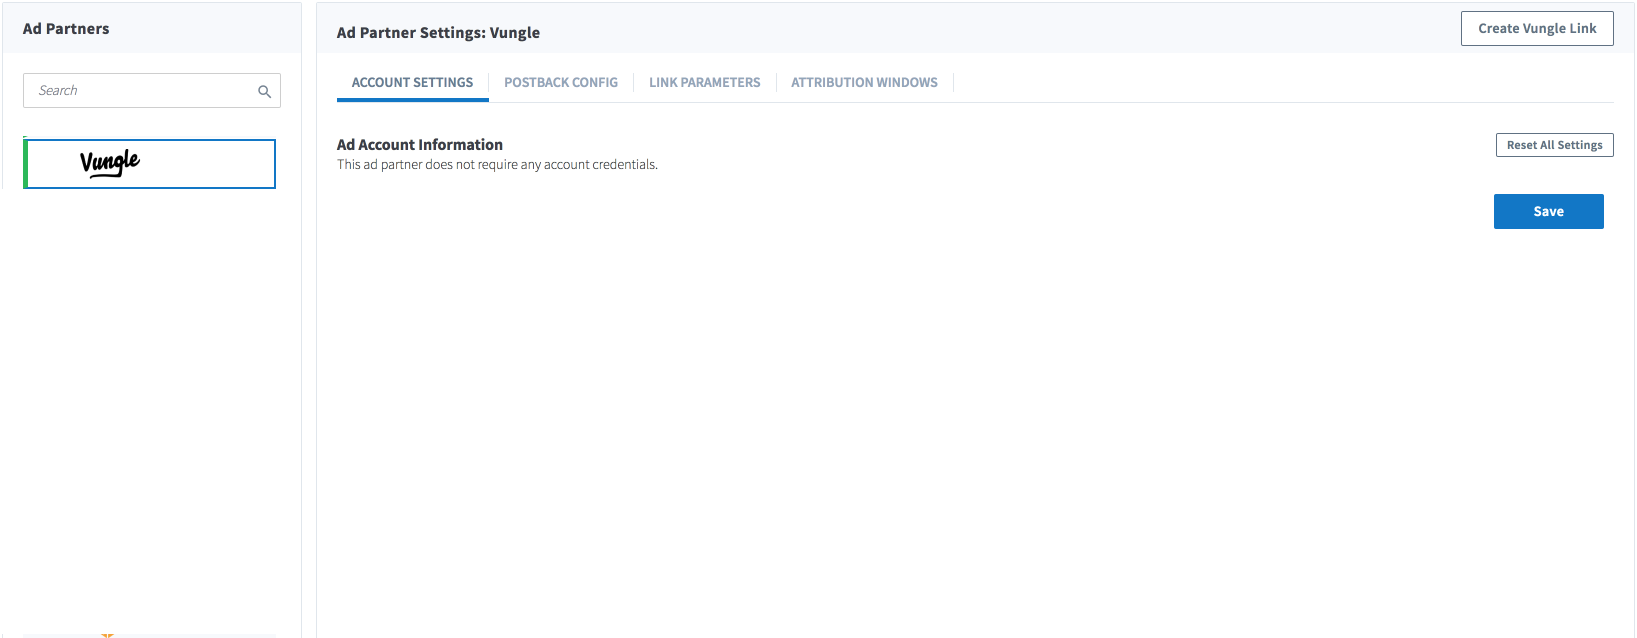
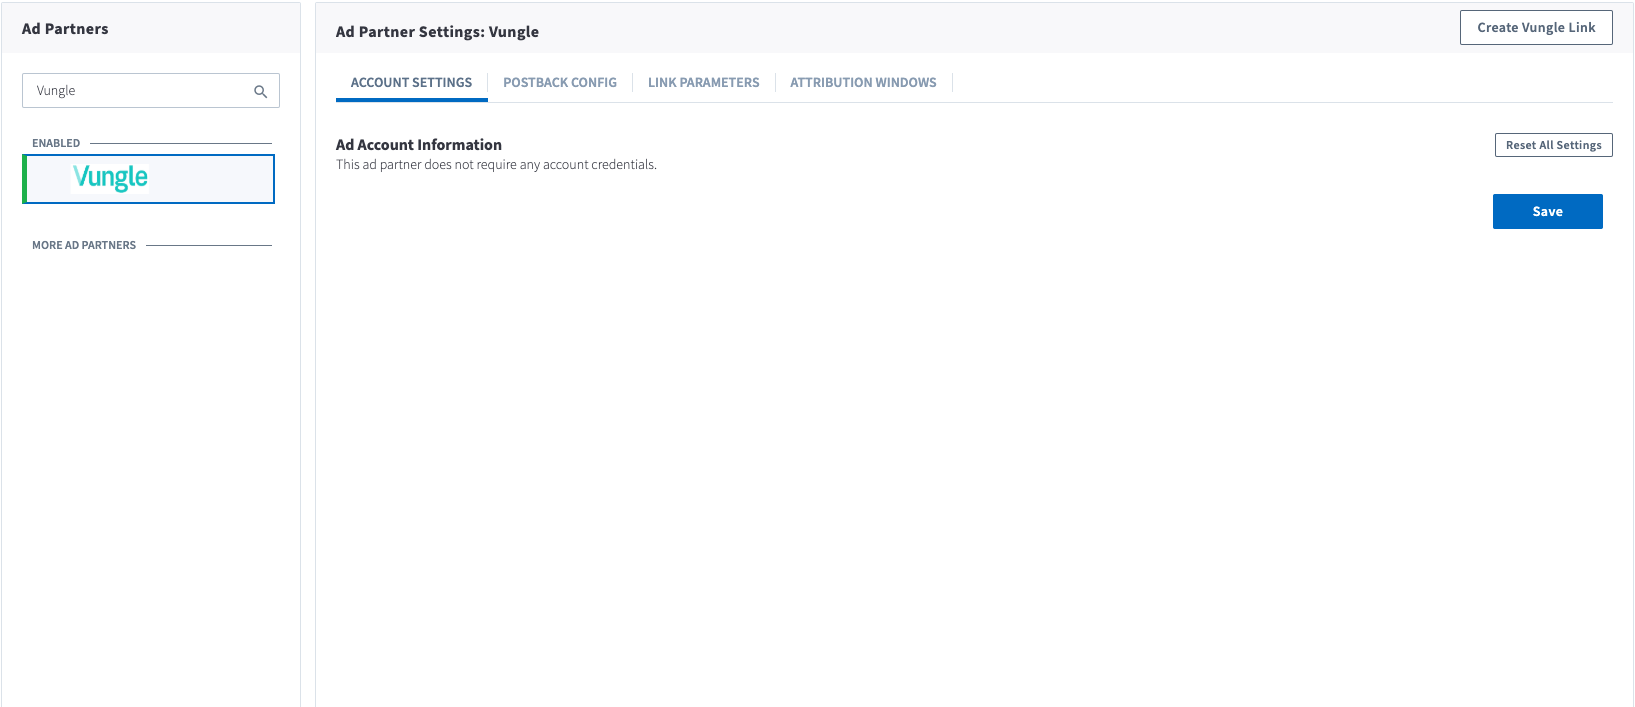
DOS-591
Vungle & Clicksworks7

diff --git a/pages/deep-linked-ads/ad-networks-list.md b/pages/deep-linked-ads/ad-networks-list.md
@@ -91,7 +91,7 @@ Interested in becoming a Universal Ads Partner? Just fill out this form: **[Part
 <a href="http://www.click2commission.com" target="_blank">![Click2Commission](https://cdn.branch.io/branch-assets/ad-partner-manager/388787843096400122/c2c-HD-logo-1528847880292.png)</a>|**[Click2Commission](/deep-linked-ads/click2commission-mobile-tracking/)**
 <a href="https://www.clickadu.com/" target="_blank">![Clickadu](https://cdn.branch.io/branch-assets/ad-partner-manager/386574786681131050/clickadu-1528501636823.png)</a>|**[Clickadu](/deep-linked-ads/clickadu-mobile-tracking/)**
 <a href="https://clickky.biz/" target="_blank">![Clickky](https://cdn.branch.io/branch-assets/ad-partner-manager/386574786681131050/clickky-1528501647002.png)</a>|**[Clickky](/deep-linked-ads/clickky-mobile-tracking/)**
-<a href="http://www.clickwork7.com/" target="_blank">![Clickwork7](https://s3.amazonaws.com/platform_static_files/adnetwork_logos/clickwork7.png)</a>|**[Clickwork7](/deep-linked-ads/clickwork7-mobile-tracking/)**
+<a href="http://www.clickwork7.com/" target="_blank">![Clickwork7](https://cdn.branch.io/branch-assets/ad-partner-manager//clickwork7_logo-1554421391704.png)</a>|**[Clickwork7](/deep-linked-ads/clickwork7-mobile-tracking/)**
 <a href="http://clinch.co" target="_blank">![Clinch](https://cdn.branch.io/branch-assets/ad-partner-manager/388787843096400122/100-1526521261310.png)</a>|**[Clinch](/deep-linked-ads/clinch-mobile-tracking/)**
 <a href="http://cluep.com" target="_blank">![Cluep](https://cdn.branch.io/branch-assets/ad-partner-manager/386574786681131050/new-cluep-logo-01-1533858970784.png)</a>|**[Cluep](/deep-linked-ads/cluep-mobile-tracking/)**
 <a href="http://www.collectcent.com/" target="_blank">![Collectcent Digital Media](https://cdn.branch.io/branch-assets/ad-partner-manager/386574786681131050/download-1536897978496.png)</a>|**[Collectcent Digital Media](/deep-linked-ads/collectcent-digital-media-mobile-tracking/)**
@@ -315,7 +315,7 @@ Interested in becoming a Universal Ads Partner? Just fill out this form: **[Part
 <a href="https://www1.vizury.com" target="_blank">![Vizury](https://cdn.branch.io/branch-assets/ad-partner-manager/388787843096400122/logo-1539039205867.png)</a>|**[Vizury](/deep-linked-ads/vizury-mobile-tracking/)**
 <a href="http://www.volo.mobi" target="_blank">![Volo Media](https://cdn.branch.io/branch-assets/ad-partner-manager/388787843096400122/logo-1536798446832.png)</a>|**[Volo Media](/deep-linked-ads/volo-media-mobile-tracking/)**
 <a href="https://www.vserv.com/" target="_blank">![Vserv](https://cdn.branch.io/branch-assets/ad-partner-manager/386574786681131050/vserv-logo-1534544290091.png)</a>|**[Vserv](/deep-linked-ads/vserv-mobile-tracking/)**
-<a href="https://vungle.com/" target="_blank">![Vungle](https://cdn.branch.io/branch-assets/ad-partner-manager/386574786681131050/Vungle-1528510860118.png)</a>|**[Vungle](/deep-linked-ads/vungle-mobile-tracking/)**
+<a href="https://vungle.com/" target="_blank">![Vungle](https://cdn.branch.io/branch-assets/ad-partner-manager//Vungle_Logo-1553294434257.png)</a>|**[Vungle](/deep-linked-ads/vungle-mobile-tracking/)**
 <a href="https://www.wagawin.com/en/" target="_blank">![Wagawin](https://cdn.branch.io/branch-assets/ad-partner-manager/386574786681131050/Wagawin-Logo-1547682856531.png)</a>|**[Wagawin](/deep-linked-ads/wagawin-mobile-tracking/)**
 <a href="https://wakeapp.ru/" target="_blank">![Wakeapp](https://cdn.branch.io/branch-assets/ad-partner-manager/386574786681131050/wak-1528510869958.png)</a>|**[Wakeapp](/deep-linked-ads/wakeapp-mobile-tracking/)**
 <a href="http://www.webpals.com/" target="_blank">![Webpals Mobile](https://cdn.branch.io/branch-assets/ad-partner-manager/388787843096400122/image001-1539039952572.png)</a>|**[Webpals Mobile](/deep-linked-ads/webpals-mobile-mobile-tracking/)**

diff --git a/pages/deep-linked-ads/clickwork7-mobile-tracking.md b/pages/deep-linked-ads/clickwork7-mobile-tracking.md
@@ -1,6 +1,6 @@
 ## Overview
 
-![Clickwork7](https://s3.amazonaws.com/platform_static_files/adnetwork_logos/clickwork7.png)
+![Clickwork7](https://cdn.branch.io/branch-assets/ad-partner-manager//clickwork7_logo-1554421391704.png)
 
 This guide will walk you through how to setup your campaigns with **[Clickwork7](http://www.clickwork7.com/)** using Branch Universal Ads and track ad conversions across **every device, platform, and channel**.
 

diff --git a/pages/deep-linked-ads/vungle-mobile-tracking.md b/pages/deep-linked-ads/vungle-mobile-tracking.md
@@ -1,6 +1,6 @@
 ## Overview
 
-![Vungle](https://cdn.branch.io/branch-assets/ad-partner-manager/386574786681131050/Vungle-1528510860118.png)
+![Vungle](https://cdn.branch.io/branch-assets/ad-partner-manager//Vungle_Logo-1553294434257.png)
 
 This guide will walk you through how to setup your campaigns with **[Vungle](https://vungle.com/)** using Branch Universal Ads and track ad conversions across **every device, platform, and channel**.
 
